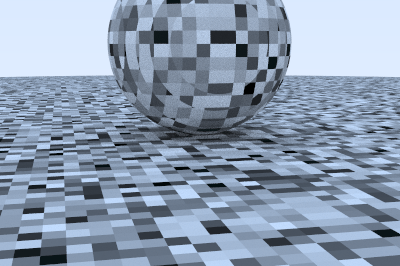
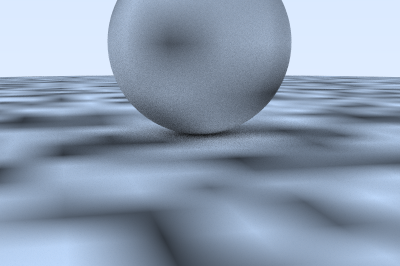
trilinear perlin noise smoothing

diff --git a/src/include/perlin.h b/src/include/perlin.h
@@ -25,11 +25,25 @@ public:
     }
 
     double noise(const point3& p) const {
-        auto i = static_cast<int>(4 * p.x()) & 255;
-        auto j = static_cast<int>(4 * p.y()) & 255;
-        auto k = static_cast<int>(4 * p.z()) & 255;
+        auto u = p.x() - floor(p.x());
+        auto v = p.y() - floor(p.y());
+        auto w = p.z() - floor(p.z());
 
-        return ranfloat[perm_x[i] ^ perm_y[j] ^ perm_z[k]];
+        auto i = static_cast<int>(floor(p.x()));
+        auto j = static_cast<int>(floor(p.y()));
+        auto k = static_cast<int>(floor(p.z()));
+        double c[2][2][2];
+
+        for (int di = 0; di < 2; di++)
+            for (int dj = 0; dj < 2; dj++)
+                for (int dk = 0; dk < 2; dk++)
+                    c[di][dj][dk] = ranfloat[
+                        perm_x[(i + di) & 255] ^
+                            perm_y[(j + dj) & 255] ^
+                            perm_z[(k + dk) & 255]
+                    ];
+
+        return trilinear_interp(c, u, v, w);
     }
 
 
@@ -58,6 +72,18 @@ private:
             p[i] = p[target];
             p[target] = tmp;
         }
+    }
+
+    static double trilinear_interp(double c[2][2][2], double u, double v, double w) {
+        auto accum = 0.0;
+        for (int i = 0; i < 2; i++)
+            for (int j = 0; j < 2; j++)
+                for (int k = 0; k < 2; k++)
+                    accum += (i * u + (1 - i) * (1 - u)) *
+                    (j * v + (1 - j) * (1 - v)) *
+                    (k * w + (1 - k) * (1 - w)) * c[i][j][k];
+
+        return accum;
     }
 };
 
